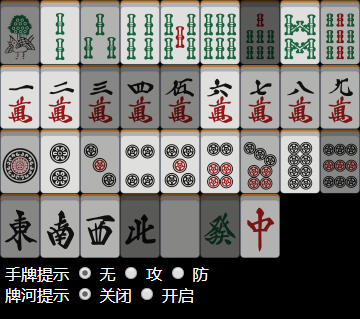
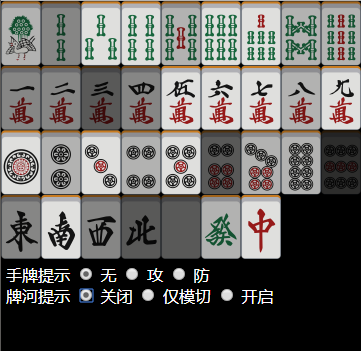
seperate river helper options

diff --git a/main.js b/main.js
@@ -29,6 +29,34 @@
         }
         set riverHelper(i) {
             this._riverHelper = i;
+            if (!view.DesktopMgr.Inst) return;
+            if (i == 0) {
+                for (let i = 0; i <= 3; i++) {
+                    const player = view.DesktopMgr.Inst.players[i];
+                    const tiles = player.container_qipai.pais;
+                    if (player.container_qipai.last_pai !== null) tiles.push(player.container_qipai.last_pai);
+                    tiles.forEach(tile => {
+                        if (tile.ismoqie) {
+                            tile._ismoqie = tile.ismoqie;
+                            tile.model.meshRender.sharedMaterial.setColor(caps.Cartoon.COLOR, new Laya.Vector4(1, 1, 1, 1));
+                            delete tile.ismoqie;
+                        }
+                    })
+                }
+            } else {
+                for (let i = 0; i <= 3; i++) {
+                    const player = view.DesktopMgr.Inst.players[i];
+                    const tiles = player.container_qipai.pais;
+                    if (player.container_qipai.last_pai !== null) tiles.push(player.container_qipai.last_pai);
+                    tiles.forEach(tile => {
+                        if (tile._ismoqie) {
+                            tile.ismoqie = tile._ismoqie; 
+                            tile.model.meshRender.sharedMaterial.setColor(caps.Cartoon.COLOR, new Laya.Vector4(0.8, 0.8, 0.8, 1));
+                            delete tile._ismoqie;
+                        }
+                    })
+                }
+            }
         }
         inject() {
             if (typeof uiscript === "undefined" || !uiscript.UI_DesktopInfo || typeof ui === "undefined" || !ui.mj.desktopInfoUI.uiView) return setTimeout(() => this.inject(), 1000);
@@ -163,6 +191,8 @@
                                     <input type="radio" id="river0" value="0" name="river" checked>
                                     <label>关闭</label>
                                     <input type="radio" id="river1" value="1" name="river">
+                                    <label>仅模切</label>
+                                    <input type="radio" id="river2" value="2" name="river">
                                     <label>开启</label>
                                 </div>
                             </div>
@@ -179,7 +209,7 @@
                     d.getElementById("masks").appendChild(div);
                 }
                 ["hand0", "hand1", "hand2"].forEach(str => d.getElementById(str).addEventListener("click", e => this.handHelper = +e.target.value));
-                ["river0", "river1"].forEach(str => d.getElementById(str).addEventListener("click", e => this.riverHelper = +e.target.value));
+                ["river0", "river1", "river2"].forEach(str => d.getElementById(str).addEventListener("click", e => this.riverHelper = +e.target.value));
             })
             document.body.appendChild(b);
             window.addEventListener("beforeunload", () => this.window.close());
@@ -202,8 +232,12 @@
                         tile = view.DesktopMgr.Inst.lastqipai;
                     }
                 }
-                tile.ismoqie = true;
-                tile.model.meshRender.sharedMaterial.setColor(caps.Cartoon.COLOR, new Laya.Vector4(0.8, 0.8, 0.8, 1));
+                if (this._riverHelper) {
+                    tile.ismoqie = true; 
+                    tile.model.meshRender.sharedMaterial.setColor(caps.Cartoon.COLOR, new Laya.Vector4(0.8, 0.8, 0.8, 1));
+                } else {
+                    tile._ismoqie = true;
+                }
             }
             if (action.hasOwnProperty("operation")) {
                 const operations = action.operation;
@@ -224,7 +258,7 @@
             }
         }
         dyeRiver(tileIn) {
-            if (!this._riverHelper) return;
+            if (this._riverHelper < 2) return;
             const warningColor = (tileSelected, tileRiverModel, isSelf) => {
                 let color = tileRiverModel.ismoqie ? new Laya.Vector4(0.8, 0.8, 0.8, 1) : new Laya.Vector4(1, 1, 1, 1);
                 const tileRiver = tileRiverModel.val;

diff --git a/README.md b/README.md
@@ -24,7 +24,7 @@
 
 ### 安装方法 - 浏览器
 - 安装油猴脚本 TamperMonkey 
-- 导入 **main.js** 或 **main-river.js** (带牌河提示版本) 或打开 [此链接](https://greasyfork.org/scripts/378059-majsoul-helper) 安装脚本
+- 导入 **main.js** 或打开 [此链接](https://greasyfork.org/scripts/378059-majsoul-helper) 安装脚本
 
 ### 安装方法 - Majsoul Plus
 - 在 **resources\app\execute** 中新建文件夹
